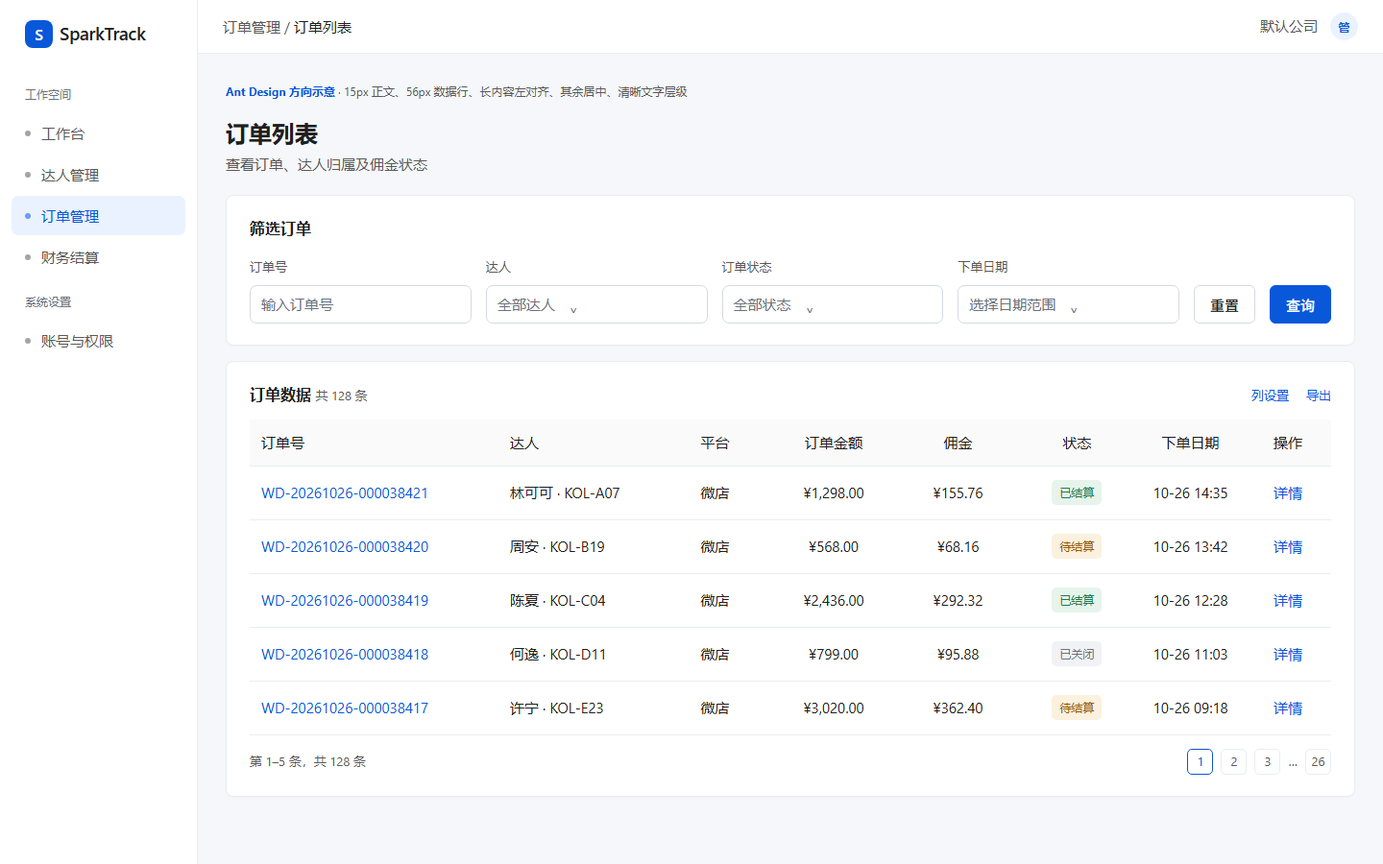
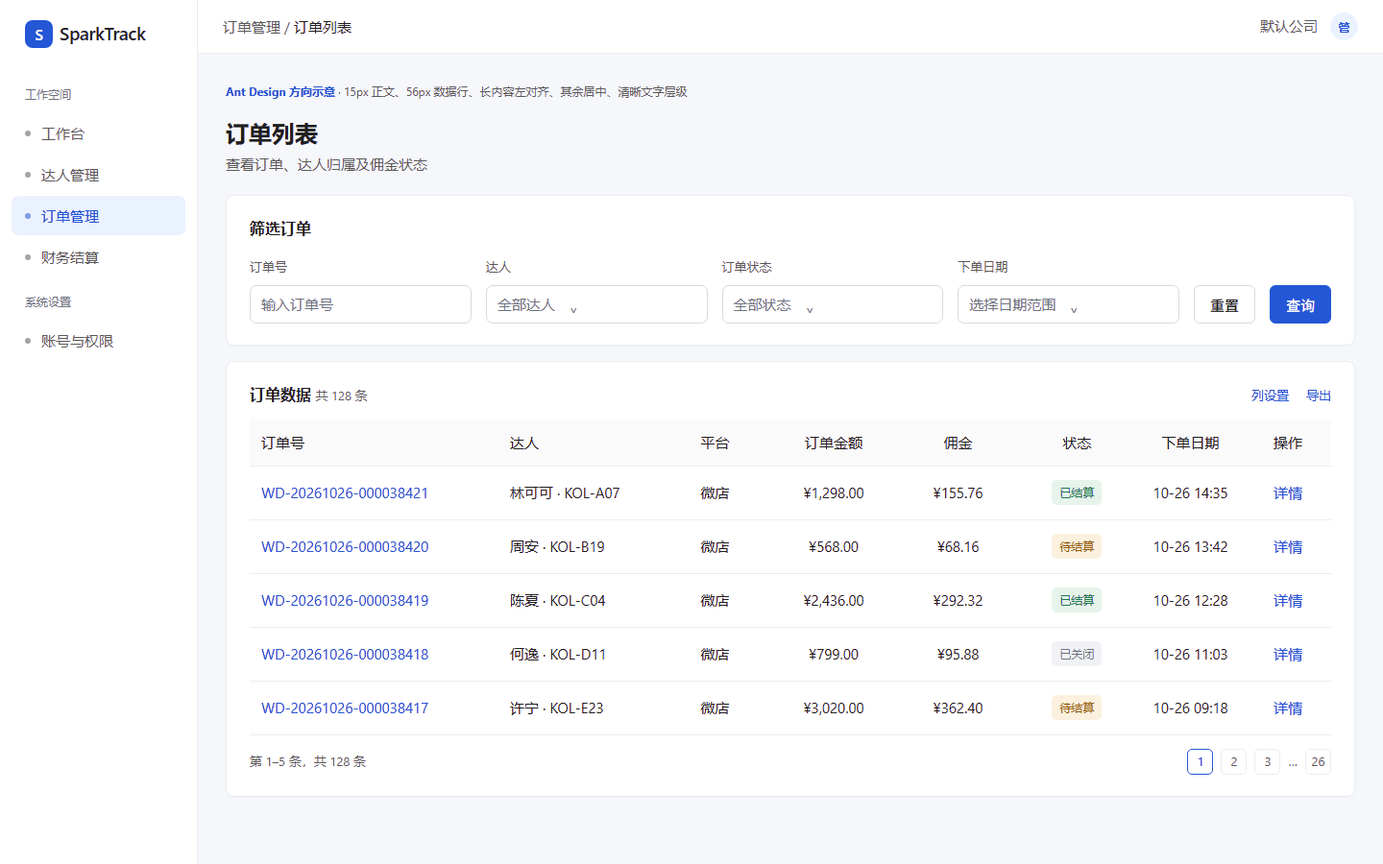
docs: confirm Manman typography and primary color

diff --git a/docs/05-工程规范/13-前端视觉与交互规范-曼曼版.md b/docs/05-工程规范/13-前端视觉与交互规范-曼曼版.md
@@ -1,13 +1,13 @@
 # 13 前端视觉与交互规范（曼曼版）
 
-> 状态：结构草案。2026-10-27 已确认的表格方案 A 收录在附录 A；其余视觉与交互章节待逐项确认。**第 13 份文件定稿后，再以它为依据实施前端视觉调整。**
+> 状态：结构草案。2026-10-27 已确认第 2 章的部分文字与主色规则，以及附录 A 的表格方案 A；其余细节待逐项确认。**第 13 份文件定稿后，再以它为依据实施前端视觉调整。**
 
-本规范面向 `admin-ui` 管理端与 `kol-portal` 达人端。八个主章节是全站视觉与交互规则的待完善框架；未标为“已确认”的条目不是实施指令。定稿前，已确认的表格规则以附录 A（ADR-034）为准，其他位置继续遵循规范 10；组件结构、接口、权限和代码写法遵循规范 11，需求与验收流程遵循规范 12。
+本规范面向 `admin-ui` 管理端与 `kol-portal` 达人端。八个主章节是全站视觉与交互规则的待完善框架；未标为“已确认”的条目不是实施指令。已确认的页面文字与主色规则见第 2 章，表格规则见附录 A（ADR-034）；其余位置继续遵循规范 10。组件结构、接口、权限和代码写法遵循规范 11，需求与验收流程遵循规范 12。本文件仍是草案，已确认的视觉规则也要等整份文件定稿后统一落地。
 
 | 章节 | 当前状态 | 下一步要确认的重点 |
 | --- | --- | --- |
 | 1. 适用范围与版本优先级 | 已补齐 | 按第 1.4 节的条件完成整份文件定稿 |
-| 2. 文字与颜色 | 表格已确认 | 页面、导航、表单、按钮的文字层级与颜色 |
+| 2. 文字与颜色 | 页面文字与主色部分已确认；表格已确认 | 背景、边框、状态色、禁用色及其他文字角色 |
 | 3. 页面布局 | 待确认 | 列表、详情、表单、看板及弹层的布局 |
 | 4. 组件外观 | 表格已确认 | 常用控件的尺寸、外观和组合方式 |
 | 5. 交互状态 | 表格部分确认 | 悬停、聚焦、禁用、加载、空态、错误等状态 |
@@ -25,7 +25,7 @@
 
 ### 1.2 规则优先级
 
-1. **已确认的规范 13 内容**：表格方案 A 见附录 A；未来逐章确认的规则也将明确标注确认时间和适用范围。相同视觉事项与规范 10 不一致时，以已确认的规范 13 规则为准。
+1. **已确认的规范 13 内容**：页面文字与主色见第 2 章，表格方案 A 见附录 A；未来逐章确认的规则也将明确标注确认时间和适用范围。相同视觉事项与规范 10 不一致时，以已确认的规范 13 规则作为定稿后的实施依据。
 2. **规范 13 的待确认内容**：仅记录需讨论的项目，不构成页面修改指令；定稿前，相关位置继续沿用规范 10 的现行视觉规则。
 3. **工程与验收**：组件结构、代码、权限、接口和国际化实现仍遵循规范 11；需求依据及验收流程遵循规范 12。视觉图只展示效果，不能替代字段、功能与权限要求。
 
@@ -39,13 +39,27 @@
 
 ## 2. 文字与颜色
 
-**已确认**：表格的字体、行高及文字颜色角色见附录 A.1、A.3。
+**已确认（2026-10-27）**：以下文字角色及主色适用于管理端和达人端的对应位置。示意图使用虚构订单数据，展示本次选择的组合效果；卡片布局和状态色仍按现行值绘制，不表示已确认。
 
-**待补齐**：页面标题、区块标题、正文、导航、标签、输入、按钮、辅助文字的层级；主色、背景、边框、链接、状态和禁用色的使用位置；中英文和数字的字重与对比。确认时使用同一页面的视觉对照，不要求负责人先按像素值选择。
+![第 2 章已确认的文字与主色组合效果](assets/曼曼版-第2章文字与主色-已确认组合.png)
+
+| 位置 | 字号／行高 | 字重 | 颜色与角色 |
+| --- | --- | --- | --- |
+| 页面主标题 | 24／32px | 600 | 主要文字 `#15181d`；每页最多一个 |
+| 区块标题 | 16／24px | 600 | 主要文字 `#15181d`，保持现行层级 |
+| 左侧菜单 | 15／24px | 常态 400，选中 600 | 常态次要文字 `#5c6470`；选中项 `#2457d6` |
+| 筛选项与表单标签 | 14／22px | 400 | 深色主要文字 `#15181d`，包括“订单号”“订单状态”；不使用占位文字的灰色 |
+| 输入、选择器及下拉值 | 14／22px | 400 | 输入值沿用主要文字；占位提示沿用现行次要文字 `#5c6470` |
+| 面包屑、标题下说明、普通正文 | 14／22px | 沿用规范 10 | 面包屑层级与次要说明沿用现行颜色；正文沿用主要文字 |
+| 按钮文字 | 14／22px | 600 | 主按钮白字配 `#2457d6`；次按钮沿用现行深色文字与边框 |
+
+全站可点击文字、主按钮和选中菜单统一使用现行主色 `#2457d6`，包括普通链接、表格订单号、行操作与表格工具栏链接。悬停、聚焦及禁用状态的具体外观留待第 5 章确认；不能只以颜色表示交互状态。系统名称及未列出的文字角色暂沿用规范 10。表格字体、行高、列对齐和表格内主要／次要文字角色继续按附录 A 执行；本章统一的是可点击文字的蓝色。
+
+**待补齐**：背景、边框、状态色、禁用色及尚未列出的文字角色，中英文和数字的字重与对比。示意图中的这些未确认项目只是现行页面的临时展示，后续逐项确认；不以像素数字要求负责人直接选择。
 
 ## 3. 页面布局
 
-**已确认**：现阶段非表格区域沿用规范 10；表格自身的留白与行底色见附录 A.1。
+**已确认**：现阶段非表格区域的布局和间距沿用规范 10，文字与主色中已确认的部分见第 2 章；表格自身的留白与行底色见附录 A.1。
 
 **待补齐**：页头与侧栏、内容区、面包屑、卡片、筛选区、页签、详情区、表单、看板、弹窗与抽屉的排布和间距；内容少、内容多及超宽屏时的处理。每类页面至少留一张可对照的标准示例。
 
@@ -81,7 +95,7 @@
 
 ## 附录 A：已确认的表格方案 A（ADR-034）
 
-适用于两端桌面常规列表、看板中的 `DataTable`、弹窗与抽屉中的 `plain` 表格。以下规则已确认；示意图使用虚构数据，图中的筛选区、页面标题与卡片外观尚未确认。
+适用于两端桌面常规列表、看板中的 `DataTable`、弹窗与抽屉中的 `plain` 表格。以下规则已确认；示意图使用虚构数据，主要展示表格方案 A。图中的非表格标题、标签和链接以第 2 章的已确认组合图为准；筛选区排布与卡片外观尚未确认。
 
 ![方案 A：虚构订单数据的视觉示意](assets/列表视觉方案A-示意.png)
 
@@ -118,10 +132,10 @@
 | --- | --- | --- |
 | 表头、普通数据 | `#1f1f1f` | 表头靠字重与背景区分；关键数据保持清楚 |
 | 条数、分页、次要说明 | `#595959` | 弱于普通数据，仍可读 |
-| 可点击订单号与行操作 | `#0958d9` | 悬停、键盘聚焦时有可见反馈 |
+| 可点击订单号与行操作 | `#2457d6` | 与第 2 章全站主色一致；悬停、键盘聚焦时有可见反馈 |
 | 占位或不可用信息 | `#6b737d` | 不用于金额、状态等关键数据 |
 
-状态标签继续使用既有成功、警告、危险等语义色。颜色通过两端一致的 `tokens.css` 语义变量实现，不在单个页面写固定色值；正常大小的关键文字与背景保持可读对比度。以上只确定表格内的文字角色，非表格位置后续单独确认。
+状态标签继续使用既有成功、警告、危险等语义色，具体状态色仍待逐项确认。颜色通过两端一致的 `tokens.css` 语义变量实现，不在单个页面写固定色值；正常大小的关键文字与背景保持可读对比度。表格之外的已确认文字角色与统一主色见第 2 章，其他位置后续单独确认。
 
 ### A.4 工程实现契约
 

diff --git a/docs/04-开发任务/前端视觉规范方案A-1027-执行报告.md b/docs/04-开发任务/前端视觉规范方案A-1027-执行报告.md
@@ -2,32 +2,34 @@
 
 ## 结论
 
-最初从远端 `main`（`b87bd6f`）建立独立工作树；2026-10-27 又同步了最新 `main`（`8ea9b35`），保留其新增的看板与图表规范。规范 13 已调整为《前端视觉与交互规范（曼曼版）》八项框架，表格方案 A 保留在附录 A。负责人选择的是变化较温和的方案 A：长内容左对齐，其余内容居中。规范 13 尚未定稿；前端页面、组件和令牌尚未修改，落地工作等待定稿。
+最初从远端 `main`（`b87bd6f`）建立独立工作树；2026-10-27 又同步了最新 `main`（`8ea9b35`），保留其新增的看板与图表规范。规范 13 已调整为《前端视觉与交互规范（曼曼版）》八项框架，表格方案 A 保留在附录 A。负责人选择的是变化较温和的方案 A：长内容左对齐，其余内容居中；看过组合效果后又确认第 2 章的部分文字层级及统一主色。规范 13 尚未定稿；前端页面、组件和令牌尚未修改，落地工作等待定稿。
 
 ## 逐项复核
 
 | 已确认事项 | 落点 | 结果 |
 | --- | --- | --- |
-| 八项全站视觉与交互结构 | 规范 13 第 1～8 节 | 框架完成；除表格外的细节待确认 |
+| 八项全站视觉与交互结构 | 规范 13 第 1～8 节 | 框架完成；第 2 章文字与主色部分确认，其余待确认 |
 | 采用温和的方案 A，保留可见示意 | 规范 13 附录 A、ADR-034 | 完成；图中为虚构订单 |
 | 长内容左对齐，其余居中，含金额 | 规范 13 附录 A.2、A.4 | 完成；覆盖表头、插槽、复制、操作及看板列表 |
 | 表格文字层级、行高、表头与行底色 | 规范 13 附录 A.1 | 完成 |
-| 表格位置对应的文字颜色 | 规范 13 附录 A.3 | 完成；非表格位置待后续确认 |
+| 页面标题、侧栏、深色筛选标签及紧凑表单文字 | 规范 13 第 2 章、组合示意图 | 完成；两端相同文字角色适用同一规则 |
+| 按钮、选中菜单和链接统一现行蓝色 | 规范 13 第 2 章、附录 A.3、ADR-034 | 完成；含表格订单号与行操作，统一为 `#2457d6` |
+| 表格位置对应的文字颜色 | 规范 13 附录 A.3 | 完成；表格主要／次要文字角色不变 |
 | 两端实现方式及验收 | 规范 13 附录 A.4、A.5 | 已记录；代码在定稿后落地 |
-| 缺失字号表的执行依据 | 规范 10、12、13、`AGENTS.md`、ADR-034 | 定稿前全站沿用规范 10；表格细则记录在规范 13 附录 A |
+| 缺失字号表的执行依据 | 规范 10、12、13、`AGENTS.md`、ADR-034 | 定稿前现行页面沿用规范 10；第 2 章和附录 A 是定稿后的实施依据 |
 | 最新 main 的看板规范 | 规范 11「看板与图表」、ADR-033 | 已保留；看板内列表执行方案 A |
 
 ## 验证
 
-- 对照 [规范 13 附录 A 的方案 A 示意](../05-工程规范/13-前端视觉与交互规范-曼曼版.md) 人工检查表头、对齐、留白与数据行底色；图像已在本机浏览器渲染并查看。
+- 对照 [规范 13 的第 2 章组合示意及附录 A 方案 A](../05-工程规范/13-前端视觉与交互规范-曼曼版.md) 人工检查标题、侧栏、筛选标签、统一蓝色、表头、对齐、留白与数据行底色；组合图已在本机 Edge 浏览器渲染并查看，附录 A 原图的蓝色已同步修正。
 - `git diff --check`：通过。
-- 全文检索规范 10～13 与 `AGENTS.md`：旧的“金额右对齐”“表格隔行底色”“xlsx 为当前执行标准”口径已清理，表格已确认细节集中到规范 13 附录 A，待确认章节不构成实施指令。
-- 表格颜色在白色背景上的对比度：`#1f1f1f` 16.48:1、`#595959` 7.00:1、`#0958d9` 6.16:1、`#6b737d` 4.80:1。
+- 全文检索规范 10～13 与 `AGENTS.md`：旧的“金额右对齐”“表格隔行底色”“xlsx 为当前执行标准”口径已清理；已确认的第 2 章和附录 A 与现行实施基线的关系已写清，待确认章节不构成实施指令。
+- 表格颜色在白色背景上的对比度：`#1f1f1f` 16.48:1、`#595959` 7.00:1、`#2457d6` 6.16:1、`#6b737d` 4.80:1。
 - 未运行前后端构建或测试：本轮仅修改规范、ADR 和示意图，没有修改运行代码。
 
 ## 偏离与遗留
 
-- 规范 13 第 1～8 节仍是框架；除附录 A 表格方案外，筛选区、标题、卡片、组件状态、响应式等尚未逐项确认，不能据此修改全站页面。
+- 规范 13 第 1～8 节仍是框架；第 2 章只确认指定文字角色与统一主色，背景、边框、状态色、禁用色以及布局、组件状态、响应式等尚未逐项确认，不能据此修改全站页面。
 - 现有两端 `DataTable` 仍把 `amount` 与右对齐绑定，也没有显式 `align`；实现任务应连同令牌、页面列定义和浏览器验收一起处理。
 - 原字号 xlsx 当前仓库未跟踪。若日后补入，需依据规范 10、13 和 ADR-034 核对差异。
 

diff --git a/docs/06-架构决策/ADR-034-表格视觉采用方案A.md b/docs/06-架构决策/ADR-034-表格视觉采用方案A.md
@@ -1,6 +1,6 @@
 # ADR-034：表格视觉采用方案 A
 
-状态：已确认（2026-10-27）
+状态：已确认（2026-10-27；同日补记第 2 章文字与主色选择）
 
 ## 背景
 
@@ -13,10 +13,16 @@
 1. 本轮只确认桌面表格及其紧邻文字的视觉规则。表格表头、数据与行操作为 15／24px；表头 500 字重，数据 400 字重；默认表头约 48px、数据行约 56px，长内容换行时自然增高。
 2. 订单号、ID、邮箱、链接、名称、备注等长内容左对齐；金额、比例、日期、状态、平台、数量和操作等短内容居中。表头与单元格同向对齐；自定义单元格中的内容、复制控件与操作组也遵守列对齐。金额保留 `tabular-nums`，不再因 `amount` 自动右对齐。
 3. 表头浅灰、数据行白色、以水平分隔线区分行；不使用隔行底色。表格颜色按规范 13 附录 A.3 的文字角色定义，两端使用一致的语义令牌。
-4. 规范 13《前端视觉与交互规范（曼曼版）》先建立八项全站框架，表格方案 A 作为已确认内容保留在附录 A；其他章节逐项确认，定稿后再实施前端视觉调整。此前规范 10 管全站现行规则，规范 11 管工程写法。缺失的 xlsx 若后续补入，须先核对并处理差异。规范 12 和 `AGENTS.md` 同步修改引用。
-5. 这次是规范修订，不修改前端代码。两端 `DataTable`、令牌、页面列定义及浏览器验收在后续独立的实现任务中完成。示意图中的筛选区、页面标题和卡片外观尚未逐项确认。桌面表格的规则也适用于看板内的 `DataTable` 与弹窗、抽屉中的表格；手机卡片布局按原有响应式规则。
+4. 规范 13《前端视觉与交互规范（曼曼版）》先建立八项全站框架，表格方案 A 作为已确认内容保留在附录 A；第 2 章文字与主色部分确认，其余细节逐项确认，定稿后再实施前端视觉调整。此前规范 10 管全站现行规则，规范 11 管工程写法。缺失的 xlsx 若后续补入，须先核对并处理差异。规范 12 和 `AGENTS.md` 同步修改引用。
+5. 这次是规范修订，不修改前端代码。两端 `DataTable`、令牌、页面列定义及浏览器验收在后续独立的实现任务中完成。桌面表格的规则也适用于看板内的 `DataTable` 与弹窗、抽屉中的表格；手机卡片布局按原有响应式规则。
 
-本决定替代 ADR-026 中表格 14／22px、隔行底色，以及 ADR-028 中对缺失 xlsx 的执行依据；不改变 ADR-029 的行操作全部直接显示规则。非表格文字层级仍沿用规范 10 现有定义。
+### 2026-10-27 补充决定：第 2 章文字与主色
+
+负责人看过页面组合预览后，确认页面主标题更突出（24／32px、600）、左侧菜单更易读（15／24px），区块标题维持现行 16／24px。筛选标签如“订单号”“订单状态”使用深色主要文字 `#15181d`，不归入灰色的次要说明；输入、面包屑、标题说明和按钮文字保持现行紧凑层级。按钮、选中菜单、普通链接、表格订单号及行操作统一使用现行蓝色 `#2457d6`，因此规范 13 附录 A.3 原写的表格链接色 `#0958d9` 一并修正。表格方案 A 的列对齐、字号及行高不变。
+
+第 2 章只确认上述文字角色和主色；背景、边框、状态色、禁用色仍待确认，示意图暂用现行值。规范 13 继续保持草案状态，八章全部定稿后再安排前端代码落地与浏览器验收；本次只改规范、相关引用和文档图片。
+
+本决定替代 ADR-026 中表格 14／22px、隔行底色，以及 ADR-028 中对缺失 xlsx 的执行依据；不改变 ADR-029 的行操作全部直接显示规则。非表格文字中已确认的角色按规范 13 第 2 章作为定稿后的实施依据，其余仍沿用规范 10。
 
 ## 备选方案及取舍
 

diff --git a/AGENTS.md b/AGENTS.md
@@ -33,7 +33,7 @@ pnpm lint && pnpm typecheck && pnpm test && pnpm build
 
 1. **范围**：只做任务要求的内容。不加未要求的功能、抽象、配置项、依赖。发现范围外的问题，写进报告，不顺手改。
 2. **架构**（规范 01）：后台根包 `com.tcrm.admin` 的直接子包是模块；模块内分 `controller/service/mapper/model/api`；调用方向 controller → service → mapper；模块之间只能依赖对方的 `api` 包；`*DO` 不出现在接口入参出参。
-3. **编码**（规范 02、10、11、13）：Google Java Style（Spotless）；禁止通配符导入、`public` 实例字段、Lombok、字段注入、`System.out`；金额用 `BigDecimal`，时间用 `Instant`（UTC）。前端界面文字从语言包读取（中英文），不写死；`formatInstant` 跟当前语言，名称+编码走 `common.nameWithCode` / 工具函数；Controller 不加类级 `@Validated`（规范 03）；现行全站字体、间距及响应式布局遵守规范 10，已确认的表格方案 A 记录于规范 13《前端视觉与交互规范（曼曼版）》附录 A；规范 13 定稿前不依其待确认章节改动页面；管理端列表必须用 `ListSearch`、`DataTable`、`RowActions`、`CopyText`，看板图表只用 ECharts 并经 `ChartPanel` 等看板公共组件，未实现的功能显示「开发中」（规范 11）。
+3. **编码**（规范 02、10、11、13）：Google Java Style（Spotless）；禁止通配符导入、`public` 实例字段、Lombok、字段注入、`System.out`；金额用 `BigDecimal`，时间用 `Instant`（UTC）。前端界面文字从语言包读取（中英文），不写死；`formatInstant` 跟当前语言，名称+编码走 `common.nameWithCode` / 工具函数；Controller 不加类级 `@Validated`（规范 03）；现行全站字体、间距及响应式布局遵守规范 10；规范 13《前端视觉与交互规范（曼曼版）》第 2 章已确认部分文字与主色，附录 A 已确认表格方案 A，整份规范定稿前不据此批量修改页面；管理端列表必须用 `ListSearch`、`DataTable`、`RowActions`、`CopyText`，看板图表只用 ECharts 并经 `ChartPanel` 等看板公共组件，未实现的功能显示「开发中」（规范 11）。
 4. **接口**（规范 03）：路径复数 kebab-case；统一信封 `{code,msg,data,errorCode,traceId}`；错误码登记在 `shared.ErrorCode`；分页 `{items,total,page,size}`；选择器全量列表用专用 `List` 接口，禁止 `size=100` 冒充全量；ID 与金额序列化为字符串。
 5. **数据库**（规范 04）：只通过 Flyway 迁移，脚本名 `V{yyyyMMddHHmm}__描述.sql`；**已合并的脚本不得修改**；表和字段必须有注释；只用参数绑定；业务表必须有 `tenant_id`（所属公司）。
 6. **测试**（规范 05）：业务规则必须有单元测试；集成测试命名 `*IT` 并标注 `@Tag("docker")`；修复缺陷先写复现测试；不得跳过或弱化失败的测试；覆盖率门槛不得降低。

diff --git a/docs/05-工程规范/10-前端视觉与布局规范.md b/docs/05-工程规范/10-前端视觉与布局规范.md
@@ -8,7 +8,7 @@
 
 字号与行高单位均为 CSS px。该表为桌面端后台规范，未在表中列出的位置按最接近的文字角色处理；新增文字角色时先补充本表，再实现页面。
 
-**负责人决定（2026-10-27，ADR-034）**：表格采用方案 A；已确认细则集中在 [规范 13《前端视觉与交互规范（曼曼版）》附录 A](13-前端视觉与交互规范-曼曼版.md)。规范 13 目前是框架草案，待定稿后再用于前端落地；此前本文继续约束非表格区域，表格方案 A 的已确认内容以附录 A 为准。
+**负责人决定（2026-10-27，ADR-034）**：表格采用方案 A；已确认细则集中在 [规范 13《前端视觉与交互规范（曼曼版）》附录 A](13-前端视觉与交互规范-曼曼版.md)。规范 13 第 2 章也已确认部分页面文字与统一主色。规范 13 目前仍是草案，定稿后再统一用于前端落地；此前本表继续作为现行页面的实施基线。定稿后的差异以规范 13 已确认内容为准，其余视觉仍执行本文。
 
 ### 1.1 使用位置
 
@@ -41,7 +41,7 @@
 - **显示验收**：浏览器100%缩放验收。同类文字字号一致，选中前后不跳动，无文字裁切、重叠。
 - 规范依据：参考 [Ant Design 字体规范](https://ant.design/docs/spec/font/) 的层级原则；表格 15／24px 是负责人选定的项目规格，并非 Ant Design 默认值。
 
-两端以 `tokens.css` 的 CSS 变量承载上表数值（`--tcrm-font-size-*`、`--tcrm-line-height-*`、`--tcrm-font-sans`）；表格使用规范 13 的独立变量，不通过全局正文变量放大非表格内容。页面与组件样式不得出现字号数值写法，视觉契约测试负责扫描并保证两端变量一致。表格文字颜色角色见规范 13，非表格区域的颜色后续单独确认。
+两端以 `tokens.css` 的 CSS 变量承载上表数值（`--tcrm-font-size-*`、`--tcrm-line-height-*`、`--tcrm-font-sans`）；表格使用规范 13 的独立变量，不通过全局正文变量放大非表格内容。页面与组件样式不得出现字号数值写法，视觉契约测试负责扫描并保证两端变量一致。表格文字颜色角色见规范 13 附录 A，已确认的非表格文字与主色见规范 13 第 2 章；其他颜色继续沿用现行规则，待逐项确认。
 
 ## 2. 布局、间距与控件
 

diff --git a/docs/05-工程规范/README.md b/docs/05-工程规范/README.md
@@ -1,6 +1,6 @@
 # 工程规范
 
-> 版本：V1.3 草案（2026-10-27，新增曼曼版视觉与交互框架，表格方案 A 已确认，见 ADR-034）　｜　V1.2（2026-10-27，11 章新增「看板与图表」，见 ADR-033）　｜　V1.1（2026-10-21，新增 11、12 章并补充 06、08，见 ADR-028）　｜　首版 V1.0（2026-10-04）　｜　适用：`t-crm` 全部工程（backend、redirect、admin-ui、kol-portal、deploy）
+> 版本：V1.3 草案（2026-10-27，新增曼曼版视觉与交互框架；第 2 章文字与主色部分确认，表格方案 A 已确认，见 ADR-034）　｜　V1.2（2026-10-27，11 章新增「看板与图表」，见 ADR-033）　｜　V1.1（2026-10-21，新增 11、12 章并补充 06、08，见 ADR-028）　｜　首版 V1.0（2026-10-04）　｜　适用：`t-crm` 全部工程（backend、redirect、admin-ui、kol-portal、deploy）
 > 本规范**先于代码**：现有代码与规范不一致时，改代码，不改规范。修改规范须走 PR，并在 `docs/06-架构决策/` 记录原因。
 
 ## 规范清单
@@ -19,7 +19,7 @@
 | [10-前端视觉与布局规范](10-前端视觉与布局规范.md) | 双端字体、排版、间距、组件布局与响应式验收 |
 | [11-前端工程规范](11-前端工程规范.md) | 页面目录、公共组件（含看板与图表）、列表与弹窗写法、权限、接口、国际化、未实现功能、前端测试 |
 | [12-需求与验收规范](12-需求与验收规范.md) | 需求依据顺序、客户补充资料、任务提示词、逐条复核、浏览器验收、部署验证、审查与合并 |
-| [13-前端视觉与交互规范-曼曼版](13-前端视觉与交互规范-曼曼版.md) | 全站视觉与交互的八项框架；目前仅附录 A 的表格方案 A 已确认，定稿后用于前端落地 |
+| [13-前端视觉与交互规范-曼曼版](13-前端视觉与交互规范-曼曼版.md) | 全站视觉与交互的八项框架；第 2 章文字与主色部分确认，附录 A 的表格方案 A 已确认；整份定稿后用于前端落地 |
 
 ## 约束等级
 
